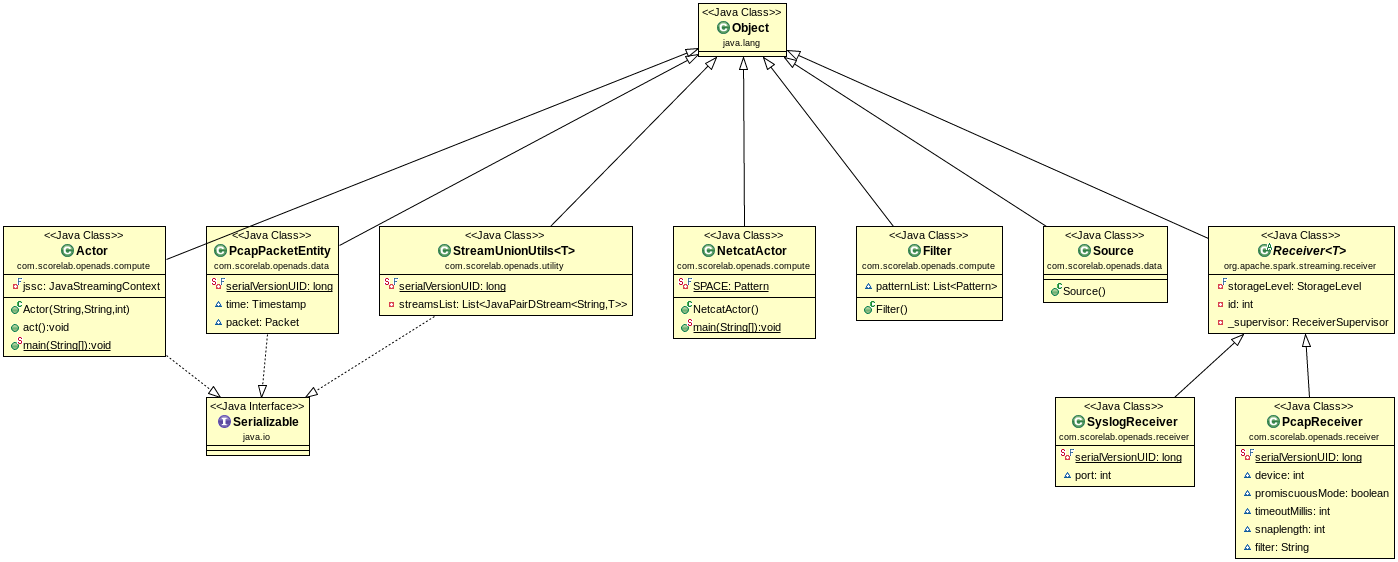
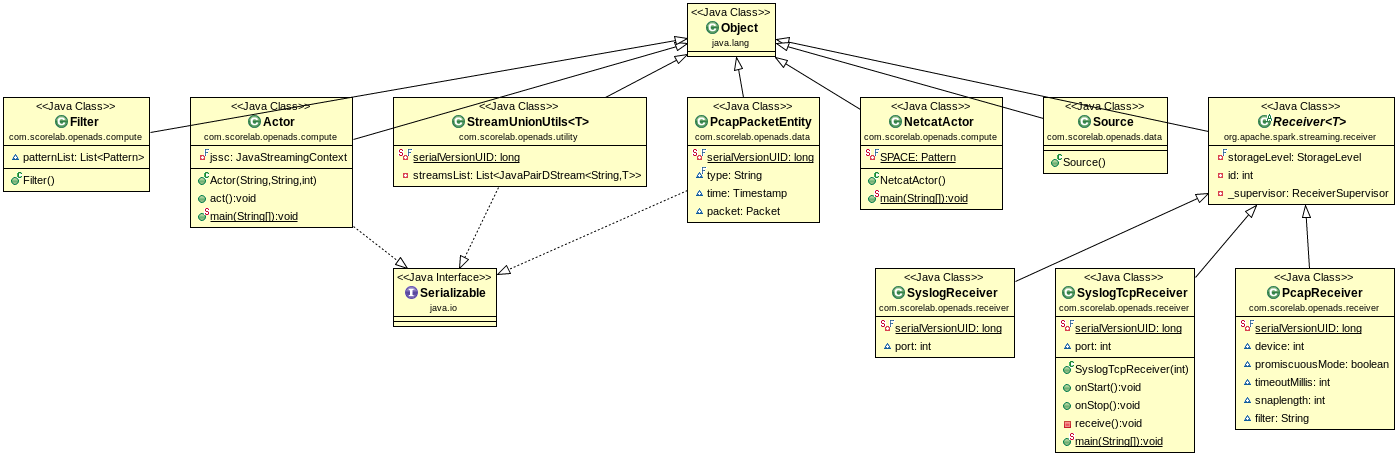
add syslog message initial analysis support using syslog4j; add rsyslog configuration

diff --git a/src/main/java/com/scorelab/openads/receiver/SyslogReceiver.java b/src/main/java/com/scorelab/openads/receiver/SyslogReceiver.java
@@ -17,6 +17,9 @@ import org.apache.spark.streaming.api.java.JavaReceiverInputDStream;
 import org.apache.spark.streaming.api.java.JavaStreamingContext;
 import org.apache.spark.streaming.api.java.JavaStreamingContextFactory;
 import org.apache.spark.streaming.receiver.Receiver;
+import org.graylog2.syslog4j.server.impl.event.structured.StructuredSyslogServerEvent;
+
+import com.google.gson.Gson;
 /**
  *
  * @author xiaolei
@@ -57,20 +60,26 @@ public class SyslogReceiver extends Receiver<String> {
         try {
             DatagramSocket serverSocket;
             serverSocket = new DatagramSocket(port);
-            byte[] receiveData = new byte[1024];
+            byte[] receiveData = new byte[2048];
 
             System.out.printf("Listening on udp:%s:%d%n",
                     InetAddress.getLocalHost().getHostAddress(), port);     
             DatagramPacket receivePacket = new DatagramPacket(receiveData,
                            receiveData.length);
+            
+            //Using Gson to store the detail of data information
+            Gson gson = new Gson();
+            
             /**
             * Start to retrieve
             */
             while(!isStopped()){
                   serverSocket.receive(receivePacket);
-                  String sentence = new String( receivePacket.getData());
-                  System.out.println("RECEIVED: " + sentence);
-                  store(sentence);
+                  StringBuilder builder = new StringBuilder();
+                  builder.append(receivePacket.getData());
+                  System.out.println("RECEIVED: " + builder.toString());
+                  StructuredSyslogServerEvent event = new StructuredSyslogServerEvent(builder.toString(), InetAddress.getLocalHost());
+                  store(gson.toJson(event));
             }
         } catch (Throwable t) {
             // restart if there is any other error

diff --git a/src/main/java/com/scorelab/openads/receiver/SyslogTcpReceiver.java b/src/main/java/com/scorelab/openads/receiver/SyslogTcpReceiver.java
@@ -18,6 +18,9 @@ import org.apache.spark.streaming.api.java.JavaReceiverInputDStream;
 import org.apache.spark.streaming.api.java.JavaStreamingContext;
 import org.apache.spark.streaming.api.java.JavaStreamingContextFactory;
 import org.apache.spark.streaming.receiver.Receiver;
+import org.graylog2.syslog4j.server.impl.event.structured.StructuredSyslogServerEvent;
+
+import com.google.gson.Gson;
 /**
  *
  * @author xiaolei
@@ -63,6 +66,9 @@ public class SyslogTcpReceiver extends Receiver<String> {
             System.out.printf("Listening on tcp:%s:%d%n",
                     InetAddress.getLocalHost().getHostAddress(), port);
             
+            //Using Gson to store the detail of data information
+            Gson gson = new Gson();
+            
             /**
             * Start to retrieve data packet
             */
@@ -73,7 +79,8 @@ public class SyslogTcpReceiver extends Receiver<String> {
                   outstream.write(receiveData);
                   builder.append(receiveData);
                   System.out.println("RECEIVED: " + builder.toString());
-                  store(builder.toString());
+                  StructuredSyslogServerEvent event = new StructuredSyslogServerEvent(builder.toString(), InetAddress.getLocalHost());
+                  store(gson.toJson(event));
             }
         } catch (Throwable t) {
             // restart if there is any other error

diff --git a/src/main/java/com/scorelab/openads/data/PcapPacketEntity.java b/src/main/java/com/scorelab/openads/data/PcapPacketEntity.java
@@ -13,6 +13,7 @@ import org.pcap4j.packet.Packet;
  */
 public class PcapPacketEntity implements Serializable{
 	private static final long serialVersionUID = 1L;
+	final String type = "pcap";
 	Timestamp time = null;
 	Packet packet = null;
 	
@@ -57,7 +58,15 @@ public class PcapPacketEntity implements Serializable{
 	/* (non-Javadoc)
 	 * @see java.lang.Object#toString()
 	 */
+	@Override
 	public String toString() {
-		return "PacketEntity [time=" + time + ", packet=" + packet + "]";
+		return "PcapPacketEntity [type=" + type + ", time=" + time + ", packet=" + packet + "]";
+	}
+
+	/**
+	 * @return the type
+	 */
+	public String getType() {
+		return type;
 	}
 }

diff --git a/Readme.md b/Readme.md
@@ -59,7 +59,7 @@ Refer to the issue link: https://github.com/kaitoy/pcap4j/issues/63
 For Linux User: to receive syslog data from remote data source, you must do two things:
 * Configure the rsyslog service in data source (after installing rsyslog in Linux):
     * `sudo vim /etc/rsyslog.conf`
-    * add `*.* @Your_IP:Your_Port`(UDP) `*.* @@localhost:514`(TCP) in the file;
+    * add `*.* @Your_IP:Your_Port;RSYSLOG_SyslogProtocol23Format`(UDP) `*.* @@localhost:514;RSYSLOG_SyslogProtocol23Format`(TCP) in the file;
     * restart the service `sudo service rsyslog restart`;
 * Configure the receiver system:
     * Allow the port in your Firewall: 
